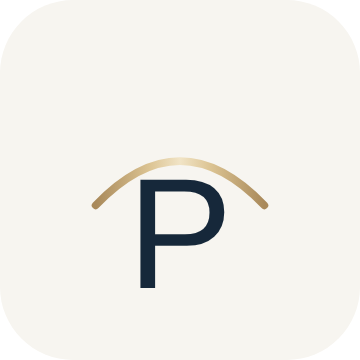
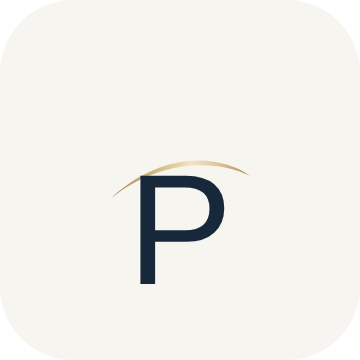
Refina o logotipo PRIME: arco assimétrico afilado e kerning ótico
Substitui o arco simétrico por um traço afilado e assimétrico (mais
autoral, evita a leitura de "cúpula"/guarda-chuva), aproxima o arco do
wordmark, e troca o letter-spacing uniforme por kerning ótico
letra-a-letra (peso Jost Thin 200) para melhor equilíbrio visual.
Aplica a mesma revisão ao ícone (arco + "P"), aos ícones do app/favicon
e ao logotipo do cabeçalho do painel.

Claude-Session: https://claude.ai/code/session_01WhNFRwZ8iVAzDTo6XYENnA

Changed region(s): [[0.2444, 0.4278, 0.7639, 0.7028], [0.3972, 0.7639, 0.4278, 0.825]]

diff --git a/index.html b/index.html
@@ -229,18 +229,20 @@ body{font-family:-apple-system,BlinkMacSystemFont,'Segoe UI',sans-serif;backgrou
 
 <div class="topnav">
   <div class="topnav-brand">
-    <svg class="topnav-logo" viewBox="0 0 600 200" role="img" aria-label="PRIME">
+    <svg class="topnav-logo" viewBox="0 0 600 190" role="img" aria-label="PRIME">
       <defs>
         <linearGradient id="topnavArco" x1="0" y1="0" x2="1" y2="0">
           <stop offset="0%"  stop-color="#BE9E6C"/>
-          <stop offset="32%" stop-color="#E8D3A4"/>
-          <stop offset="50%" stop-color="#F8EDD3"/>
-          <stop offset="68%" stop-color="#E8D3A4"/>
+          <stop offset="40%" stop-color="#E8D3A4"/>
+          <stop offset="58%" stop-color="#F8EDD3"/>
+          <stop offset="78%" stop-color="#E8D3A4"/>
           <stop offset="100%" stop-color="#BE9E6C"/>
         </linearGradient>
       </defs>
-      <path d="M40,112 Q300,24 560,112" fill="none" stroke="url(#topnavArco)" stroke-width="4.5" stroke-linecap="round"/>
-      <text x="300" y="172" text-anchor="middle" font-family="'Jost','Century Gothic','Futura',sans-serif" font-weight="200" font-size="56" letter-spacing="19" fill="#F7F5F0">PRIME</text>
+      <path d="M64,98 C184,26 388,20 536,68 C388,32 184,38 64,98 Z" fill="url(#topnavArco)"/>
+      <text x="300" y="154" text-anchor="middle" font-family="'Jost','Century Gothic','Futura',sans-serif" font-weight="200" font-size="52" fill="#F7F5F0">
+        <tspan>P</tspan><tspan dx="24">R</tspan><tspan dx="20">I</tspan><tspan dx="20">M</tspan><tspan dx="26">E</tspan>
+      </text>
     </svg>
     <p>Painel operacional · 20º Tabelião de Notas · Escrevente Shirley Dantas</p>
   </div>
